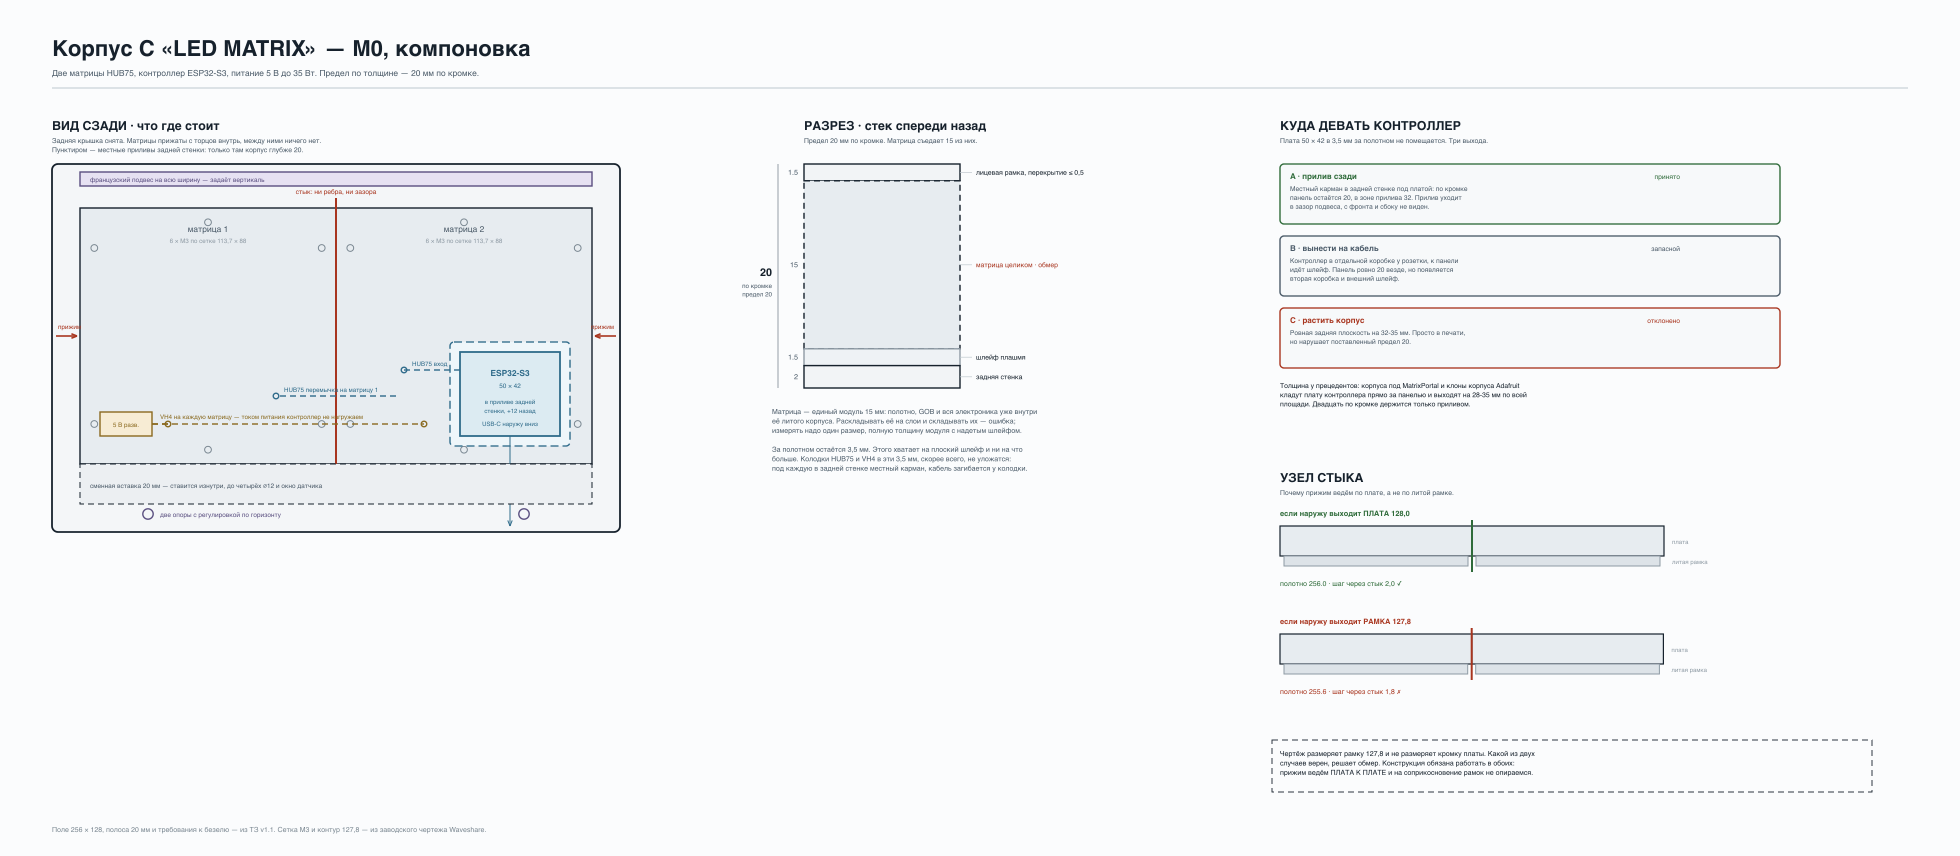
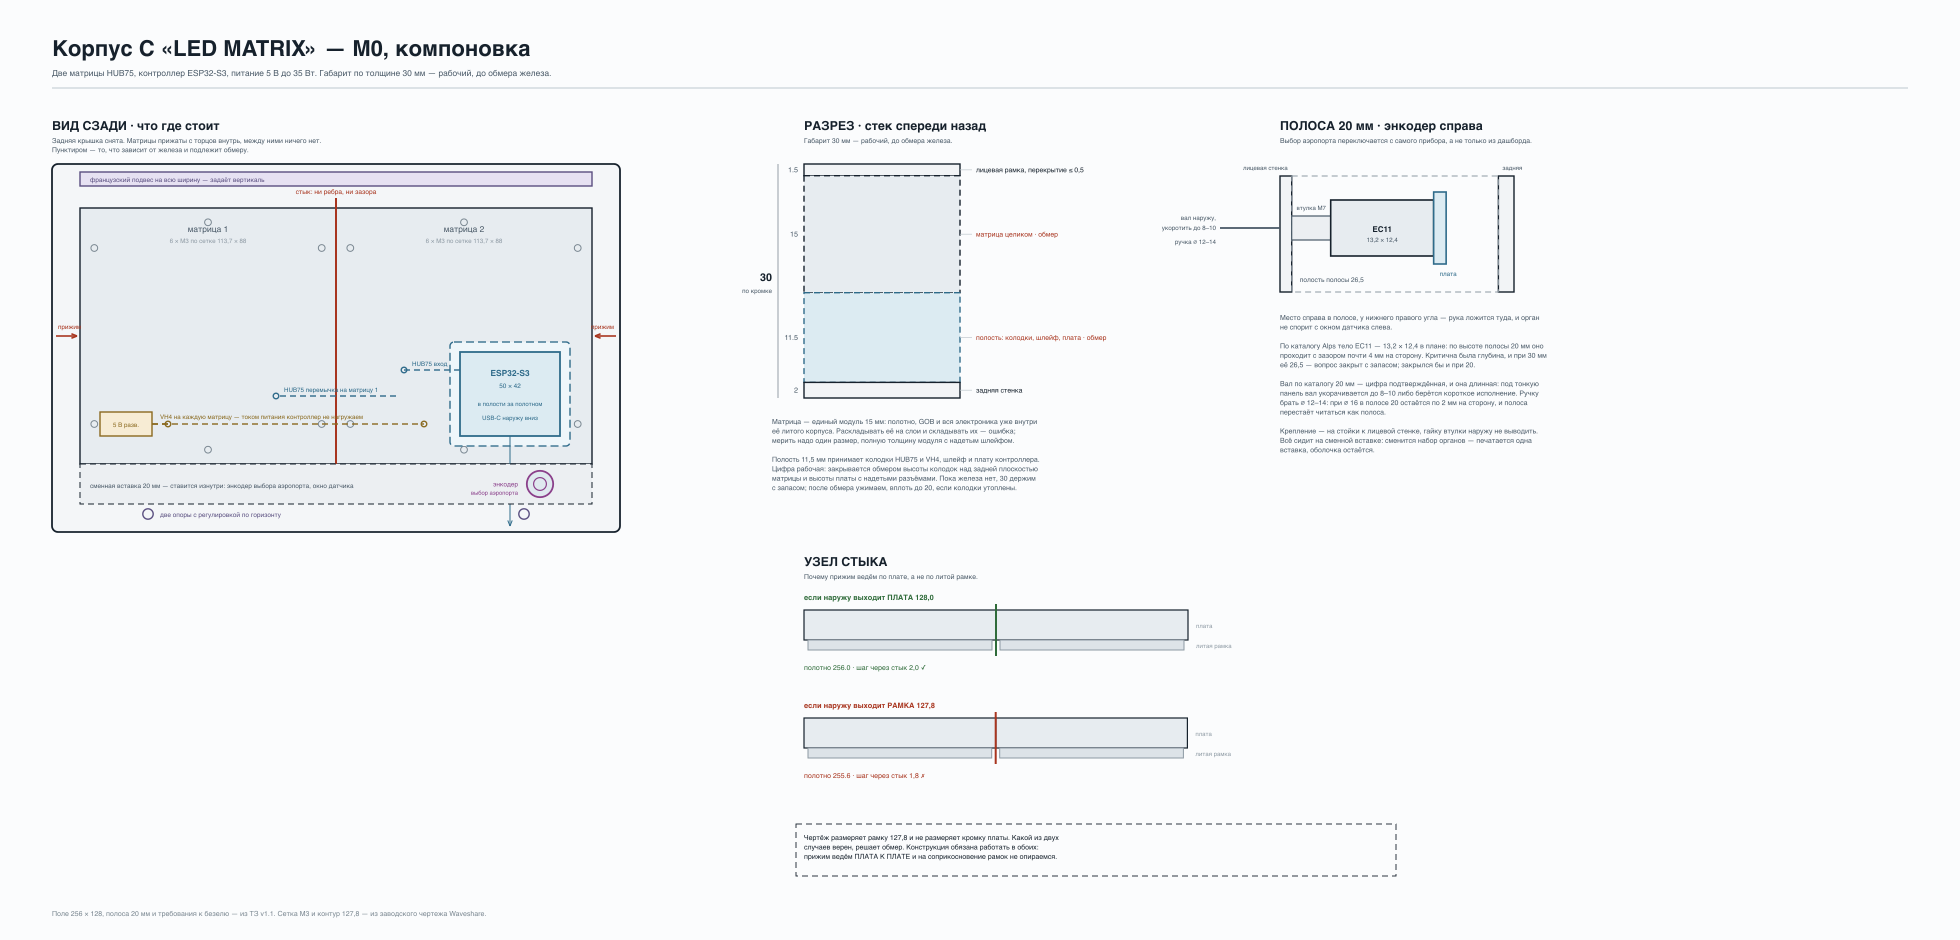
enclosure: work to 30 mm until the hardware can be measured, and put a knob on it
Two changes from the customer today.

Depth: 30 mm is the working figure until the panels are in hand. That gives an
11.5 mm cavity behind the module, which takes the connector shells, the ribbon
and the controller board without a boss in the back wall. If the shells turn
out to sit flush, the same stack closes at 20 mm, so the design is kept so
that shrinking it later changes only the depth of the back.

Controls: the panel picks its own airport for the flight-board page, so it
needs a control of its own. An EC11-size encoder with a push switch goes at
the right end of the bottom strip. Body is 13.2 x 12.4 in plan — it clears the
20 mm strip by nearly 4 mm a side, and the strip cavity is 26.5 mm deep, so
depth was never the problem. The catalogue shaft is 20 mm and wants shortening
to 8-10; knob stays at 12-14 so the strip still reads as a strip.

diff --git a/enclosure/m0_layout.py b/enclosure/m0_layout.py
@@ -68,7 +68,7 @@ class SVG:
 def rear_view(s, ox, oy):
     s.head(ox, oy - 17, "ВИД СЗАДИ · что где стоит",
            "Задняя крышка снята. Матрицы прижаты с торцов внутрь, между ними ничего нет.\n"
-           "Пунктиром — местные приливы задней стенки: только там корпус глубже 20.")
+           "Пунктиром — то, что зависит от железа и подлежит обмеру.")
     pad = 14
     bw, bh = FIELD_W + 2 * pad, FIELD_H + STRIP_H + 2 * pad + 8
     s.rect(ox, oy, bw, bh, fill="#f4f6f8", sw=0.9, rx=3)
@@ -97,9 +97,8 @@ def rear_view(s, ox, oy):
     s.rect(cbx, cby, CTRL_W, CTRL_H, fill="#dcebf2", stroke=ACC, sw=0.9)
     s.txt(cbx + CTRL_W / 2, cby + 12, "ESP32-S3", 4.2, ACC, "middle", "bold")
     s.txt(cbx + CTRL_W / 2, cby + 18, "50 × 42", 3.2, ACC, "middle")
-    s.txt(cbx + CTRL_W / 2, cby + 26, "в приливе задней", 3.0, ACC, "middle")
-    s.txt(cbx + CTRL_W / 2, cby + 30.5, "стенки, +12 назад", 3.0, ACC, "middle")
-    s.txt(cbx + CTRL_W / 2, cby + 37, "USB-C наружу вниз", 3.0, ACC, "middle")
+    s.txt(cbx + CTRL_W / 2, cby + 27, "в полости за полотном", 3.0, ACC, "middle")
+    s.txt(cbx + CTRL_W / 2, cby + 34, "USB-C наружу вниз", 3.0, ACC, "middle")
     s.arrow(cbx + CTRL_W / 2, cby + CTRL_H, cbx + CTRL_W / 2, oy + bh - 3)
 
     s.line(cbx, cby + 9, fx + PANEL + 34, cby + 9, ACC, 0.7, "3 2")
@@ -125,8 +124,13 @@ def rear_view(s, ox, oy):
     s.txt(fx + 40, oy + bh - 7.5, "две опоры с регулировкой по горизонту", 3.2, MNT)
 
     s.rect(fx, fy + FIELD_H, FIELD_W, STRIP_H, fill="#eceff2", sw=0.5, dash="3 2")
-    s.txt(fx + 5, fy + FIELD_H + 12, "сменная вставка 20 мм — ставится изнутри, "
-                                     "до четырёх ⌀12 и окно датчика", 3.2, MUTE)
+    ex, ey = fx + FIELD_W - 26, fy + FIELD_H + STRIP_H / 2
+    s.circ(ex, ey, 6.6, "#dfe9ef", "#8a3f8a", 0.9)
+    s.circ(ex, ey, 3.2, "none", "#8a3f8a", 0.6)
+    s.txt(ex - 11, ey + 1.2, "энкодер", 3.2, "#8a3f8a", "end")
+    s.txt(ex - 11, ey + 5.4, "выбор аэропорта", 2.9, "#8a3f8a", "end")
+    s.txt(fx + 5, fy + FIELD_H + 12, "сменная вставка 20 мм — ставится изнутри: энкодер выбора аэропорта, "
+                                     "окно датчика", 3.2, MUTE)
     return bw, bh
 
 
@@ -134,21 +138,21 @@ def rear_view(s, ox, oy):
 
 # kind: "fix" — наш размер; "meas" — зависит от железа, обмер
 # Толщина матрицы 15,0 — габарит литого корпуса по заводскому чертежу (боковой
-# вид меряется 15,000). Дистрибьютор даёт 14,5. Это ВЕСЬ модуль целиком, вместе
-# с полотном, GOB и электроникой; складывать его по слоям нельзя.
+# вид меряется 15,000 × 127,797). Дистрибьютор даёт 14,5 для модуля целиком.
+# Это ВЕСЬ модуль: полотно, GOB и электроника уже внутри. По слоям не раскладывать.
 LAYERS = [
     ("лицевая рамка, перекрытие ≤ 0,5", 1.5, "#f2f4f6", INK, "fix"),
     ("матрица целиком", 15.0, "#e7ecf0", INK, "meas"),
-    ("шлейф плашмя", 1.5, "#eef2f5", PALE, "fix"),
+    ("полость: колодки, шлейф, плата", 11.5, "#dcebf2", ACC, "meas"),
     ("задняя стенка", 2.0, "#f2f4f6", INK, "fix"),
 ]
-LIMIT = 20.0
+LIMIT = 30.0
 
 
 def section(s, ox, oy):
     s.head(ox, oy - 17, "РАЗРЕЗ · стек спереди назад",
-           "Предел 20 мм по кромке. Матрица съедает 15 из них.")
-    k = 5.6
+           "Габарит 30 мм — рабочий, до обмера железа.")
+    k = 3.9
     w = 78.0
     y = oy
     for nm, d, fill, stroke, kind in LAYERS:
@@ -163,45 +167,59 @@ def section(s, ox, oy):
     total = sum(d for _, d, _, _, _ in LAYERS)
     s.line(ox - 13, oy, ox - 13, y, "#7a8791", 0.4)
     s.txt(ox - 16, (oy + y) / 2, "%.0f" % total, 5.4, INK, "end", "bold")
-    s.txt(ox - 16, (oy + y) / 2 + 6, "по кромке\nпредел %.0f" % LIMIT, 3.1, MUTE, "end")
+    s.txt(ox - 16, (oy + y) / 2 + 6, "по кромке", 3.1, MUTE, "end")
 
     s.txt(ox - 16, y + 13,
           "Матрица — единый модуль 15 мм: полотно, GOB и вся электроника уже внутри\n"
           "её литого корпуса. Раскладывать её на слои и складывать их — ошибка;\n"
-          "измерять надо один размер, полную толщину модуля с надетым шлейфом.\n\n"
-          "За полотном остаётся 3,5 мм. Этого хватает на плоский шлейф и ни на что\n"
-          "больше. Колодки HUB75 и VH4 в эти 3,5 мм, скорее всего, не уложатся:\n"
-          "под каждую в задней стенке местный карман, кабель загибается у колодки.",
+          "мерить надо один размер, полную толщину модуля с надетым шлейфом.\n\n"
+          "Полость 11,5 мм принимает колодки HUB75 и VH4, шлейф и плату контроллера.\n"
+          "Цифра рабочая: закрывается обмером высоты колодок над задней плоскостью\n"
+          "матрицы и высоты платы с надетыми разъёмами. Пока железа нет, 30 держим\n"
+          "с запасом; после обмера ужимаем, вплоть до 20, если колодки утоплены.",
           3.5, MUTE)
 
 
 def controller(s, ox, oy):
-    s.head(ox, oy - 17, "КУДА ДЕВАТЬ КОНТРОЛЛЕР",
-           "Плата 50 × 42 в 3,5 мм за полотном не помещается. Три выхода.")
-    opts = [
-        ("A · прилив сзади", "#2f6b3a",
-         "Местный карман в задней стенке под платой: по кромке\n"
-         "панель остаётся 20, в зоне прилива 32. Прилив уходит\n"
-         "в зазор подвеса, с фронта и сбоку не виден.", "принято"),
-        ("B · вынести на кабель", MUTE,
-         "Контроллер в отдельной коробке у розетки, к панели\n"
-         "идёт шлейф. Панель ровно 20 везде, но появляется\n"
-         "вторая коробка и внешний шлейф.", "запасной"),
-        ("C · растить корпус", WARN,
-         "Ровная задняя плоскость на 32-35 мм. Просто в печати,\n"
-         "но нарушает поставленный предел 20.", "отклонено"),
-    ]
-    y = oy
-    for nm, col, body, verdict in opts:
-        s.rect(ox, y, 250, 30, fill="#f7f9fa", stroke=col, sw=0.7, rx=2)
-        s.txt(ox + 5, y + 7.5, nm, 4.0, col, weight="bold")
-        s.txt(ox + 200, y + 7.5, verdict, 3.3, col, "end")
-        s.txt(ox + 5, y + 13.5, body, 3.3, MUTE)
-        y += 36
-    s.txt(ox, y + 4,
-          "Толщина у прецедентов: корпуса под MatrixPortal и клоны корпуса Adafruit\n"
-          "кладут плату контроллера прямо за панелью и выходят на 28-35 мм по всей\n"
-          "площади. Двадцать по кромке держится только приливом.", 3.4, INK)
+    s.head(ox, oy - 17, "ПОЛОСА 20 мм · энкодер справа",
+           "Выбор аэропорта переключается с самого прибора, а не только из дашборда.")
+    k = 3.9
+    bx, by, H = ox, oy + 6, 58
+    s.rect(bx, by, 1.5 * k, H, fill="#f2f4f6", stroke=INK, sw=0.7)          # лицо
+    s.rect(bx + 28 * k, by, 2 * k, H, fill="#f2f4f6", stroke=INK, sw=0.7)   # зад
+    s.rect(bx + 1.5 * k, by, 26.5 * k, H, fill="none", stroke=PALE, sw=0.5, dash="3 2")
+    s.txt(bx + 1.5 * k + 4, by + H - 5, "полость полосы 26,5", 3.3, MUTE)
+    # втулка M7 сквозь лицевую стенку, тело за ней, плата сзади тела
+    v0 = bx + 1.5 * k
+    s.rect(v0, by + 20, 5 * k, 12, fill="#eceff2", stroke=MUTE, sw=0.6)
+    s.txt(v0 + 2.5 * k, by + 17, "втулка M7", 3.0, MUTE, "middle")
+    t0 = v0 + 5 * k
+    s.rect(t0, by + 12, 13.2 * k, 28, fill="#e7ecf0", stroke=INK, sw=0.8)
+    s.txt(t0 + 6.6 * k, by + 28, "EC11", 4.0, INK, "middle", "bold")
+    s.txt(t0 + 6.6 * k, by + 33, "13,2 × 12,4", 3.1, MUTE, "middle")
+    p0 = t0 + 13.2 * k
+    s.rect(p0, by + 8, 1.6 * k, 36, fill="#dcebf2", stroke=ACC, sw=0.8)
+    s.txt(p0 + 3, by + 50, "плата", 3.1, ACC)
+    s.line(bx - 30, by + 26, bx, by + 26, MUTE, 0.9)
+    s.txt(bx - 32, by + 22, "вал наружу,", 3.1, MUTE, "end")
+    s.txt(bx - 32, by + 27, "укоротить до 8–10", 3.1, MUTE, "end")
+    s.txt(bx - 32, by + 34, "ручка ⌀ 12–14", 3.1, MUTE, "end")
+    s.txt(bx + 1.5 * k - 2, by - 3, "лицевая стенка", 3.0, MUTE, "end")
+    s.txt(bx + 28 * k + 2, by - 3, "задняя", 3.0, MUTE)
+
+    s.txt(ox, oy + 78,
+          "Место справа в полосе, у нижнего правого угла — рука ложится туда, и орган\n"
+          "не спорит с окном датчика слева.\n\n"
+          "По каталогу Alps тело EC11 — 13,2 × 12,4 в плане: по высоте полосы 20 мм оно\n"
+          "проходит с зазором почти 4 мм на сторону. Критична была глубина, и при 30 мм\n"
+          "её 26,5 — вопрос закрыт с запасом; закрылся бы и при 20.\n\n"
+          "Вал по каталогу 20 мм — цифра подтверждённая, и она длинная: под тонкую\n"
+          "панель вал укорачивается до 8–10 либо берётся короткое исполнение. Ручку\n"
+          "брать ⌀ 12–14: при ⌀ 16 в полосе 20 остаётся по 2 мм на сторону, и полоса\n"
+          "перестаёт читаться как полоса.\n\n"
+          "Крепление — на стойки к лицевой стенке, гайку втулки наружу не выводить.\n"
+          "Всё сидит на сменной вставке: сменится набор органов — печатается одна\n"
+          "вставка, оболочка остаётся.", 3.5, MUTE)
 
 
 # -------------------------------------------------------------------- узел стыка
@@ -234,20 +252,20 @@ def seam(s, ox, oy):
 
 def main():
     out = sys.argv[1] if len(sys.argv) > 1 else "M0_komponovka.svg"
-    W, H = 980, 428
+    W, H = 980, 470
     s = SVG()
     s.add('<svg xmlns="http://www.w3.org/2000/svg" width="%d" height="%d" '
           'viewBox="0 0 %d %d">' % (W * 2, H * 2, W, H))
     s.add('<rect width="%d" height="%d" fill="#fbfcfd"/>' % (W, H))
     s.txt(26, 28, "Корпус C «LED MATRIX» — M0, компоновка", 11, INK, weight="bold")
     s.txt(26, 38, "Две матрицы HUB75, контроллер ESP32-S3, питание 5 В до 35 Вт. "
-                  "Предел по толщине — 20 мм по кромке.", 4.2, MUTE)
+                  "Габарит по толщине 30 мм — рабочий, до обмера железа.", 4.2, MUTE)
     s.line(26, 44, W - 26, 44, "#c8d0d8", 0.6)
 
     bw, bh = rear_view(s, 26, 82)
     section(s, 26 + bw + 92, 82)
     controller(s, 640, 82)
-    seam(s, 640, 258)
+    seam(s, 26 + bw + 92, 300)
 
     s.txt(26, H - 12,
           "Поле 256 × 128, полоса 20 мм и требования к безелю — из ТЗ v1.1. "

diff --git a/enclosure/README.md b/enclosure/README.md
@@ -34,48 +34,53 @@ The frame therefore becomes four whole rails plus corner pieces, all seams land 
 corners and on the back, and the face stays unbroken. A seam down the middle was rejected
 on purpose: it would fall exactly on the panel joint the whole design is trying to hide.
 
-## How deep it has to be: 20 mm at the edge
+## How deep it has to be
 
-**The panel is one 15 mm module, not a stack of layers.** It is worth stating plainly
-because it is easy to get wrong: the pixels, the GOB resin and all the electronics are
-already inside the moulded case, and the side view on the factory drawing measures
-15.000 × 127.797 in drawing units. The distributor's 14.5 for the whole module and this
-15.0 for the case agree with each other. Add up "board + connectors + GOB" as separate
-layers and you triple-count the same part and land near 60 mm, which is what the first
-version of this sheet did.
+**The panel is one 15 mm module, not a stack of layers.** Worth stating plainly because it
+is easy to get wrong: the pixels, the GOB resin and all the electronics are already inside
+the moulded case, and the side view on the factory drawing measures 15.000 × 127.797 in
+drawing units. The distributor's 14.5 for the whole module and this 15.0 for the case agree
+with each other. Add up "board + connectors + GOB" as separate layers and you triple-count
+the same part and land near 60 mm.
 
-The brief caps the panel at 20 mm at the edge, so the stack is:
+The working depth is 30 mm until the hardware is in hand and can be measured:
 
 | | mm |
 |---|---|
 | face frame, overlapping the field by ≤ 0.5 | 1.5 |
 | the matrix module, whole | 15 |
-| ribbon lying flat | 1.5 |
+| cavity: connector shells, ribbon, controller board | 11.5 |
 | back wall | 2.0 |
-| **total** | **20.0** |
+| **total** | **30.0** |
 
-That leaves 3.5 mm behind the panel. A flat ribbon fits in it; nothing else does. The
-HUB75 and VH4 shells almost certainly do not, so each gets a local pocket in the back
-wall with the cable bent right at the shell — the trick the MatrixPortal enclosures use,
-where the ribbon is folded into a Z with a sharp bend at each end.
+If the connector shells turn out to sit flush inside the module, the same stack closes at
+**20 mm** (1.5 + 15 + 1.5 + 2.0), so the design is kept so that shrinking it later changes
+only the depth of the back — not the principle. For comparison, MatrixPortal-style cases and
+the Adafruit-derived ones run 28–35 mm flat across the whole back.
 
-**The controller cannot live behind the panel.** A 50 × 42 board has nowhere to go in
-3.5 mm. It sits in a local boss in the back wall: the edge stays 20 mm, the boss runs
-30–32 mm deep, and it hides in the gap the wall hanger already leaves. The alternative
-found in the field — MatrixPortal-style cases and the Adafruit-derived ones — is a flat
-28–35 mm back over the whole area, which is simpler to print but abandons the 20 mm edge.
+Power is split from the matrices' point of view: the 5 V adapter feeds a distribution point,
+and each matrix takes its own VH4 lead from there. Matrix current never crosses the
+controller board. HUB75 enters the near panel and a short jumper carries it to the far one,
+so the only cable crossing the seam is one ribbon behind the boards.
 
-Power is split from the matrices' point of view: the 5 V adapter feeds a distribution
-point, and each matrix takes its own VH4 lead from there. Matrix current never crosses
-the controller board. HUB75 enters the near panel and a short jumper carries it to the
-far one, so the only cable crossing the seam is one ribbon behind the boards.
+## The knob
+
+The panel picks its own airport for the flight-board page, so it needs a control of its
+own rather than only a dashboard. An EC11-size encoder with a push switch sits at the right
+end of the 20 mm bottom strip. Its body is 13.2 × 12.4 in plan, which clears the 20 mm strip
+by nearly 4 mm a side; depth was the real question and the strip cavity is 26.5 mm. The
+catalogue shaft is 20 mm, which is long for a thin panel — shorten it to 8–10 mm, and keep
+the knob at ⌀12–14 so the strip still reads as a strip.
+
+It all rides on the swappable insert, so a different set of controls means reprinting one
+insert rather than the shell.
 
 ## Status
 
-M0 — composition options and layout, both sheets done. Not yet designed: the controller
-boss, the wall mount, the light-leak contour and the swappable 20 mm bottom strip. M2 does
-not close until the panels arrive and the module thickness and connector standoff are
-measured on the real hardware.
+M0 — composition options and layout, both sheets done. Not yet designed: the wall mount,
+the light-leak contour and the swappable bottom strip itself. M2 does not close until the
+panels arrive and the module thickness and connector standoff are measured on the real
+hardware.
 
 ## Licence
 
